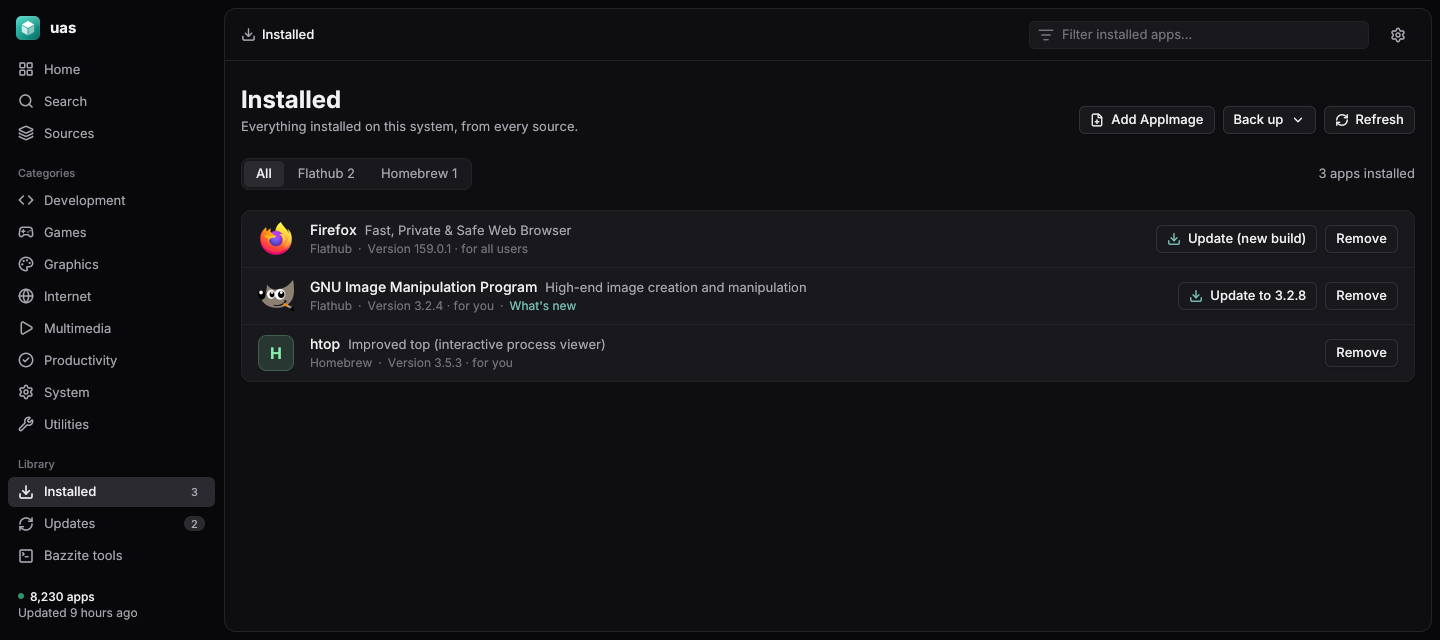
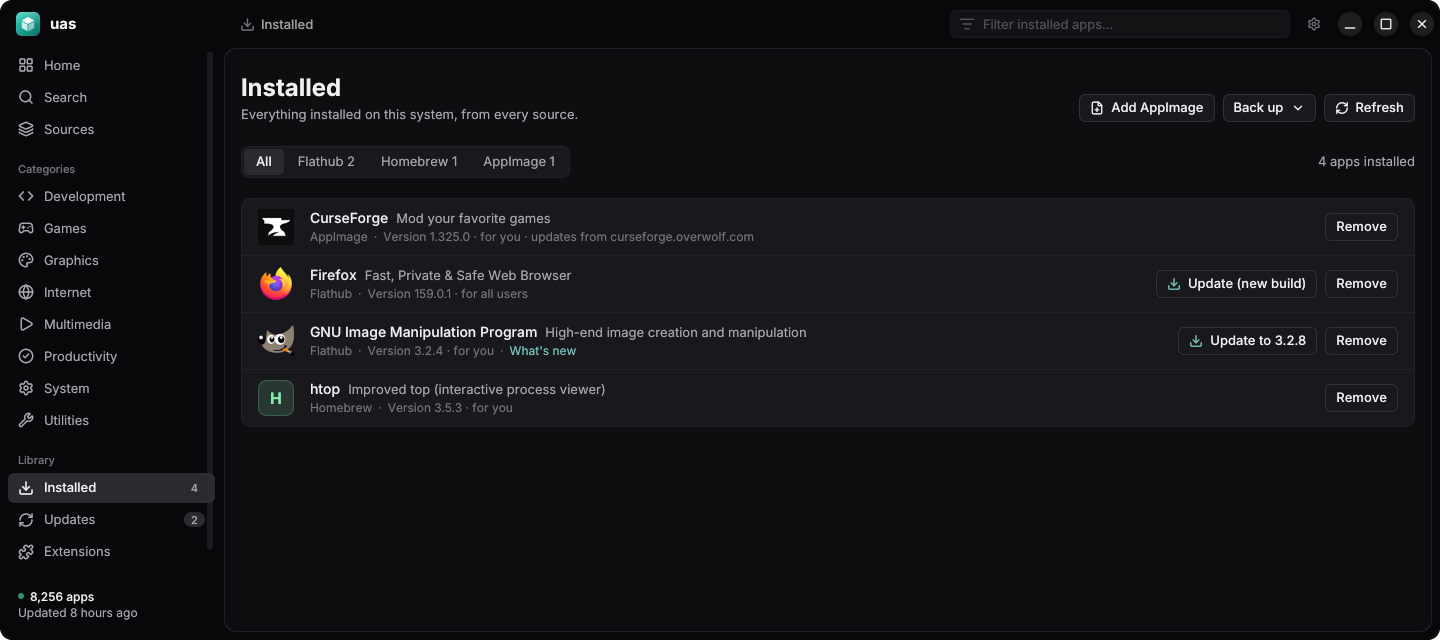
docs(readme): refresh screenshots for frameless window
Regenerate the README screenshots with TestShots so they show the frameless
window with inline window controls. TestShots now clips the window's 12 px
rounded corners, which jamb draws on the platform side and uitest does not.
The Installed shot's alt text mentions the AppImage it now lists.

diff --git a/internal/gui/shots_test.go b/internal/gui/shots_test.go
@@ -2,7 +2,10 @@ package gui
 
 import (
 	"context"
+	"image"
+	"image/draw"
 	"image/png"
+	"math"
 	"os"
 	"path/filepath"
 	"testing"
@@ -141,11 +144,44 @@ func TestShots(t *testing.T) {
 			if err != nil {
 				t.Fatal(err)
 			}
-			png.Encode(f, u.Screenshot())
+			png.Encode(f, roundCorners(u.Screenshot(), windowRadius))
 			f.Close()
 			u.Close()
 		}
 	}
+}
+
+// windowRadius is the radius of the window's corners, as jamb rounds a frameless window with app.CornersRound
+// (its Linux platform draws them; uitest renders only the content).
+const windowRadius = 12
+
+// roundCorners clears the corners of img outside a circle of radius r, antialiased, so a shot shows the
+// window's rounded corners.
+func roundCorners(img image.Image, r float64) *image.NRGBA {
+	b := img.Bounds()
+	out := image.NewNRGBA(image.Rect(0, 0, b.Dx(), b.Dy()))
+	draw.Draw(out, out.Bounds(), img, b.Min, draw.Src)
+	w, h := out.Bounds().Dx(), out.Bounds().Dy()
+	const n = 4 // samples per axis per pixel
+	for y := 0; y < int(math.Ceil(r)); y++ {
+		for x := 0; x < int(math.Ceil(r)); x++ {
+			in := 0
+			for sy := 0; sy < n; sy++ {
+				for sx := 0; sx < n; sx++ {
+					dx, dy := r-(float64(x)+(float64(sx)+0.5)/n), r-(float64(y)+(float64(sy)+0.5)/n)
+					if dx*dx+dy*dy <= r*r {
+						in++
+					}
+				}
+			}
+			for _, p := range [][2]int{{x, y}, {w - 1 - x, y}, {x, h - 1 - y}, {w - 1 - x, h - 1 - y}} {
+				c := out.NRGBAAt(p[0], p[1])
+				c.A = uint8(int(c.A) * in / (n * n))
+				out.SetNRGBA(p[0], p[1], c)
+			}
+		}
+	}
+	return out
 }
 
 // useBundledFont makes fontconfig answer "sans-serif" with the bundled Inter, so the shots show the font the

diff --git a/README.md b/README.md
@@ -58,7 +58,7 @@ COPR packages, searched and installed from one place.
     <td align="center">Search</td>
   </tr>
   <tr>
-    <td width="50%"><img src="docs/screenshots/installed.png" alt="Installed apps from Flathub and Homebrew, with available updates"></td>
+    <td width="50%"><img src="docs/screenshots/installed.png" alt="Installed apps from Flathub, Homebrew and an AppImage, with available updates"></td>
     <td width="50%"><img src="docs/screenshots/home-light.png" alt="The home page in the light theme"></td>
   </tr>
   <tr>
